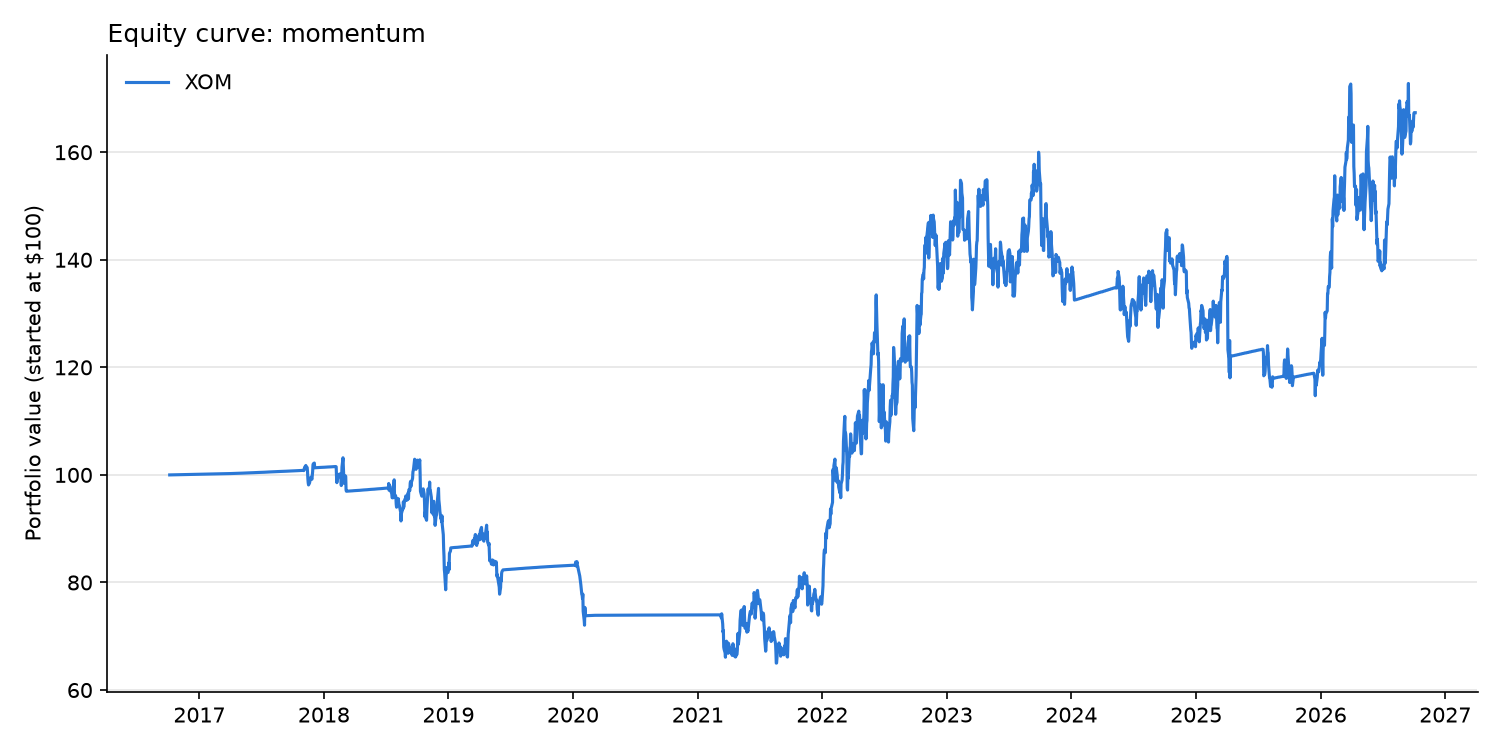
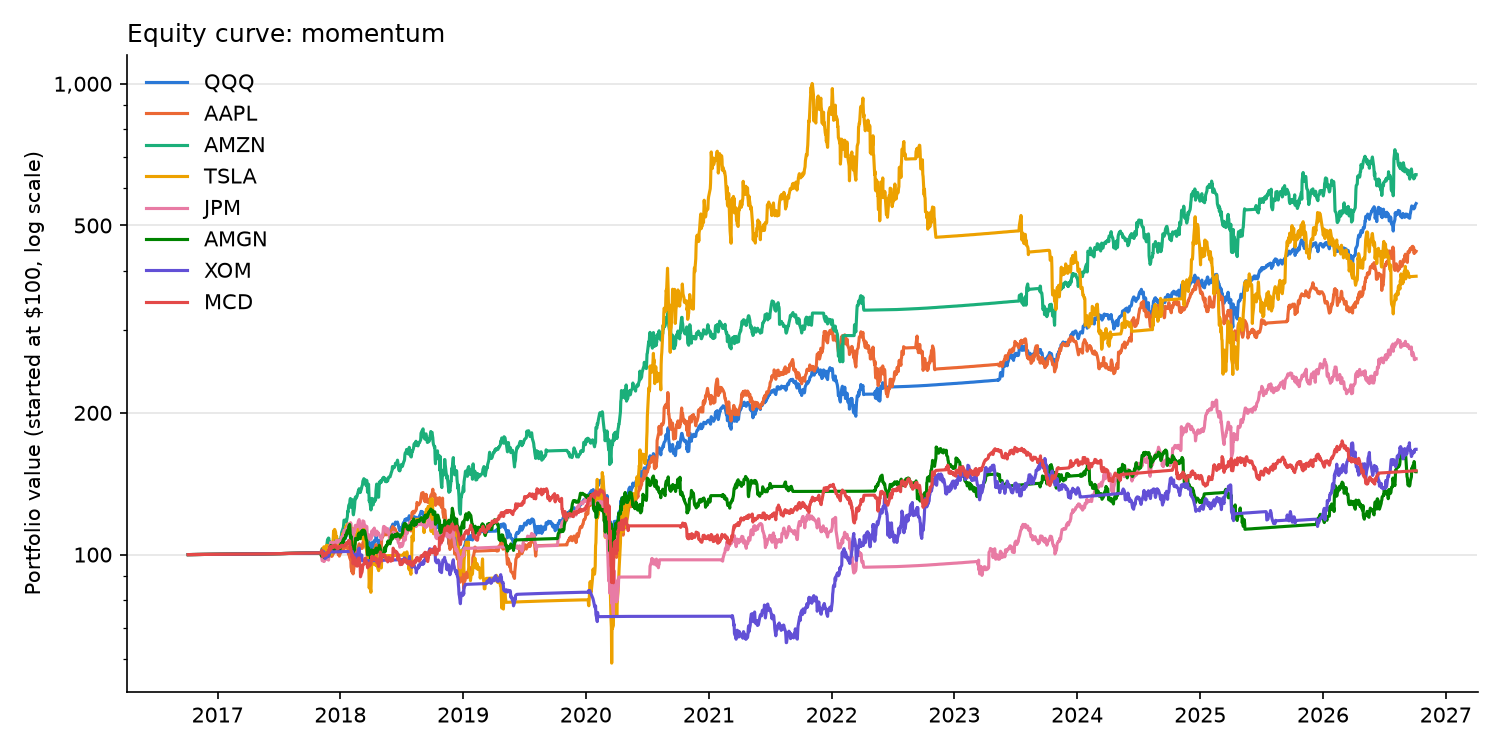
Run results for all eight tickers
Equity curve charts per strategy use a log scale so TSLA's growth
doesn't flatten the other lines. Adds a per-ticker chart for each stock.

diff --git a/src/results.py b/src/results.py
@@ -10,12 +10,13 @@ import os
 import matplotlib
 matplotlib.use("Agg")  # save charts to files without opening a window
 import matplotlib.pyplot as plt
+import matplotlib.ticker
 import pandas as pd
 
 from src.engine import evaluate, load_risk_free_rate, run_backtest
 
 # Settings
-TICKERS = ["XOM"]
+TICKERS = ["QQQ", "AAPL", "AMZN", "TSLA", "JPM", "AMGN", "XOM", "MCD"]
 STRATEGY_DIR = "src/strategies"
 OUTPUT_DIR = "results"
 CHART_DIR = os.path.join(OUTPUT_DIR, "equity_curves")
@@ -61,11 +62,19 @@ def style_axes(ax, title):
 
 def plot_by_strategy(curves, tickers, strategies):
     """One chart per strategy, one line per ticker."""
+    ticker_fmt = matplotlib.ticker.FuncFormatter(lambda y, _: f"{y:,.0f}")
     for strategy in strategies:
         fig, ax = plt.subplots(figsize=(10, 5))
         for i, ticker in enumerate(tickers):
             ax.plot(curves[(ticker, strategy)], label=ticker, color=COLORS[i % len(COLORS)], linewidth=1.5)
         style_axes(ax, f"Equity curve: {strategy}")
+        # Log scale so one big winner (e.g. TSLA) doesn't flatten the other lines;
+        # equal heights on the chart mean equal % changes
+        ax.set_yscale("log")
+        ax.yaxis.set_major_locator(matplotlib.ticker.LogLocator(base=10, subs=(1, 2, 5)))
+        ax.yaxis.set_major_formatter(ticker_fmt)
+        ax.yaxis.set_minor_formatter(matplotlib.ticker.NullFormatter())
+        ax.set_ylabel(r"Portfolio value (started at \$100, log scale)")
         fig.tight_layout()
         fig.savefig(os.path.join(CHART_DIR, f"{strategy}.png"), dpi=150)
         plt.close(fig)
